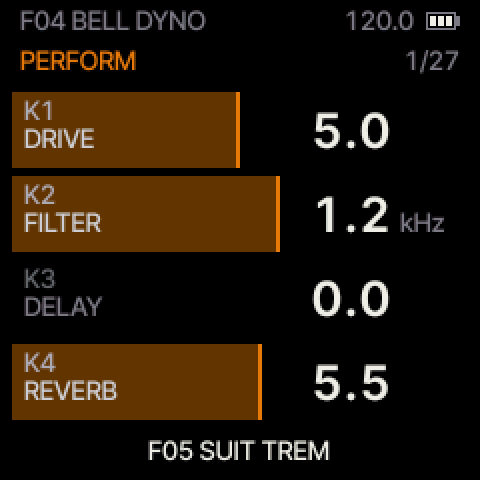
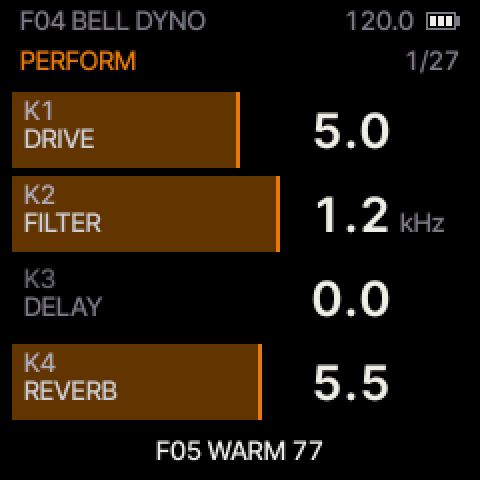
Screenshots for FINAL19 v2 (tools/manual_shots.py): the boot preset's panel; the ?v= hashes
Tested: test_manual_shots, test_docs_vs_code pass.

Changed region(s): [[0.3125, 0.9062, 0.6875, 0.9688]]

diff --git a/docs/MANUAL.md b/docs/MANUAL.md
@@ -334,7 +334,7 @@ emulator has no velocity: its keys play at KEY VEL.
 
 ### COMPRESSOR
 
-![COMPRESSOR](manual/img/comp.png?v=ecce6ad9)
+![COMPRESSOR](manual/img/comp.png?v=672989af)
 
 | Knob | Card | What it does |
 | --- | --- | --- |
@@ -724,7 +724,7 @@ DRIVE, FILTER, DELAY and REVERB.
 
 ### SETUP
 
-![SETUP](manual/img/setup.png?v=06d50ce1)
+![SETUP](manual/img/setup.png?v=b10197f2)
 
 | Knob | Card | What it does |
 | --- | --- | --- |
@@ -943,7 +943,7 @@ MARIMBA (0–95 VIBES); Program Change 14 / 15 loads F15 / F16. **Polyphony:** 1
 
 ## 6. Presets
 
-![Browsing presets](manual/img/browse.png?v=bc223d49)
+![Browsing presets](manual/img/browse.png?v=041a80be)
 
 Turn **PRESETS** to browse: **F01–F19** are the factory sounds (F13 and F14 are VIBES, F15 and F16 MARIMBA), **U01–U16** your own, after F19. A preset loads when you stop
 turning (after 0.4 s). If you did not mean to, **hold SAVE** (0.7 s) to go back to the sound you had before the
@@ -1022,7 +1022,7 @@ The first save writes them to the FM-1 with your preset; from then on they are u
 again to store it, or **HOME** (or **OCT−**) to cancel. The name is made from the type and the effects that are on
 ("SUIT TRM PHA").
 
-![Save mode](manual/img/save.png?v=c0afb277)
+![Save mode](manual/img/save.png?v=1972b9b8)
 
 The save waits for silence: the bottom line says **SAVING...** until the sound has died away, then **SAVED**. INFINITE's SUSTAIN and FREEZE hold their tail without end, so while one of them is on the save waits and the bottom line says **SAVE WAITS: SUSTAIN ON** or **SAVE WAITS: FREEZE ON**; turn DECAY down (or change the type, or switch the reverb OFF), let the tail die away, and the save goes through. The settings are saved the same way, once it is quiet. A user
 preset can be overwritten but not deleted, and browsing skips the empty ones. There is no factory reset: F01–F19 are
@@ -1058,7 +1058,7 @@ crossfade), without changing any setting: compare the dry piano with your sound.
 piano's dynamics and level do not change: with the effects' depths at 0, FX on and off sound the same. The header shows **BYP** while they are off. It is not saved, so the FM-1 always starts with the effects
 on.
 
-![FX bypass](manual/img/bypass.png?v=6aec07a2)
+![FX bypass](manual/img/bypass.png?v=7711c5d8)
 
 The order of the chain: **COMP → EQ → DRIVE → FILTER → TREM/WAH → PHASER → CHORUS → DELAY → REVERB → limiter.** The limiter at the
 end keeps even big chords of ten notes from ever clipping.
@@ -1305,7 +1305,7 @@ sound and the pages; the SMK-37 reaches them with its own buttons, its eight kno
 pads, faders and wheels. Its manual has the files, the flash backup to make first, the install, the way back to stock,
 the controls and what differs: **[SMK37.md](SMK37.md)**.
 
-![The FRODHES page on the SMK-37: the cards on K5..K8](manual/img/smk/smk-frodhes.png?v=6a45f016)
+![The FRODHES page on the SMK-37: the cards on K5..K8](manual/img/smk/smk-frodhes.png?v=c80c649f)
 
 ## 16. Appendix: the Ableton Move
 

diff --git a/docs/SMK37.md b/docs/SMK37.md
@@ -13,7 +13,7 @@ This page covers only the SMK-37: the files, the install, the way back and the c
 cards do to the sound is the same on every device and is described once, in the [manual](MANUAL.md) (sections 2-14,
 the [pages](MANUAL.md#4-the-pages) in section 4); the SMK-37 reaches them as below ([The controls](#the-controls)).
 
-![The FRODHES page on the SMK-37: TYPE, TONE and BELL on K5..K7](manual/img/smk/smk-frodhes.png?v=6a45f016)
+![The FRODHES page on the SMK-37: TYPE, TONE and BELL on K5..K7](manual/img/smk/smk-frodhes.png?v=c80c649f)
 
 ## The files
 

diff --git a/README.md b/README.md
@@ -97,7 +97,7 @@ macOS it opens its own window. Download the package for your system from the
 
 **[The user manual](docs/MANUAL.md)**: every page, knob and button, the presets, the effects and the MIDI map.
 
-![The PERFORM, VOICE, PHASER and COMPRESSOR pages on the FM-1](docs/manual/img/overview.png?v=0fafd02b)
+![The PERFORM, VOICE, PHASER and COMPRESSOR pages on the FM-1](docs/manual/img/overview.png?v=93a2d41c)
 
 ## Other keyboards
 
